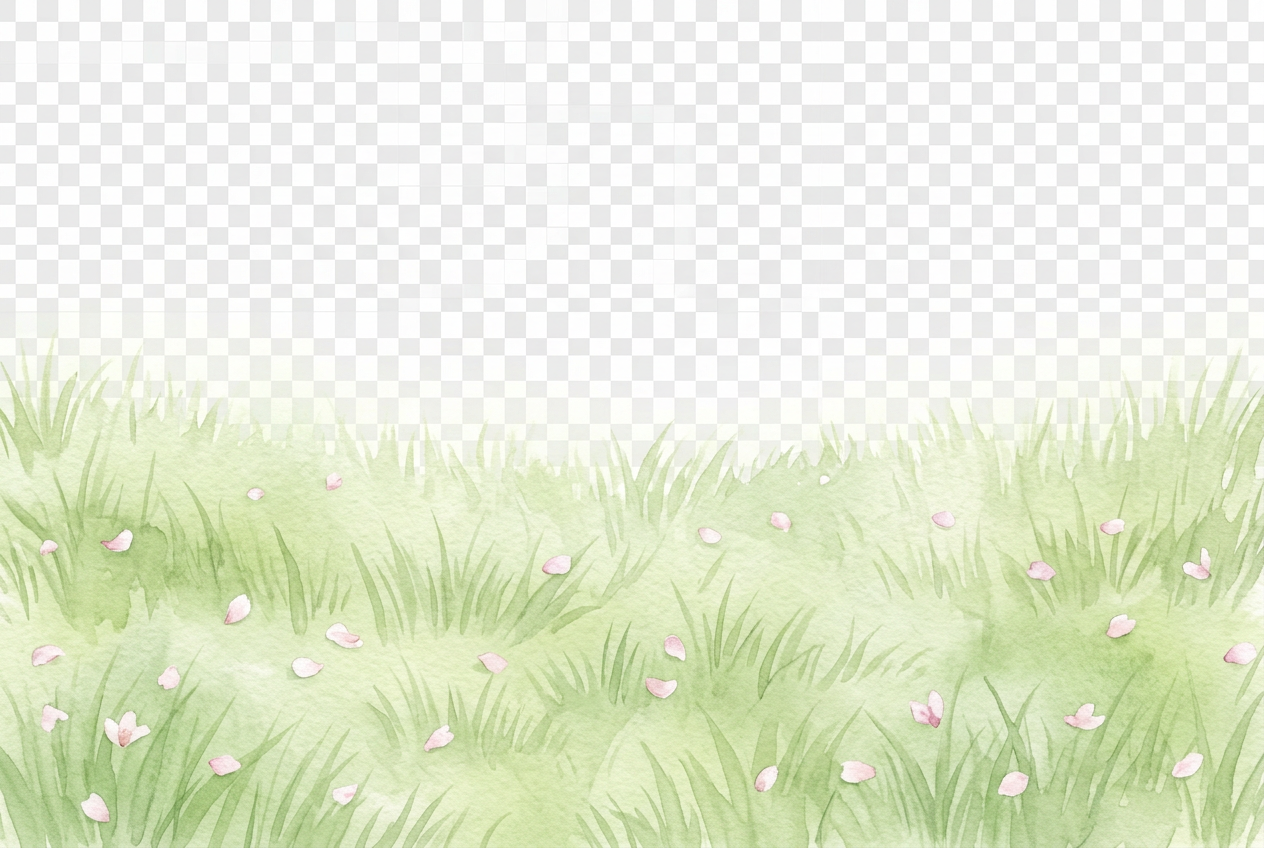
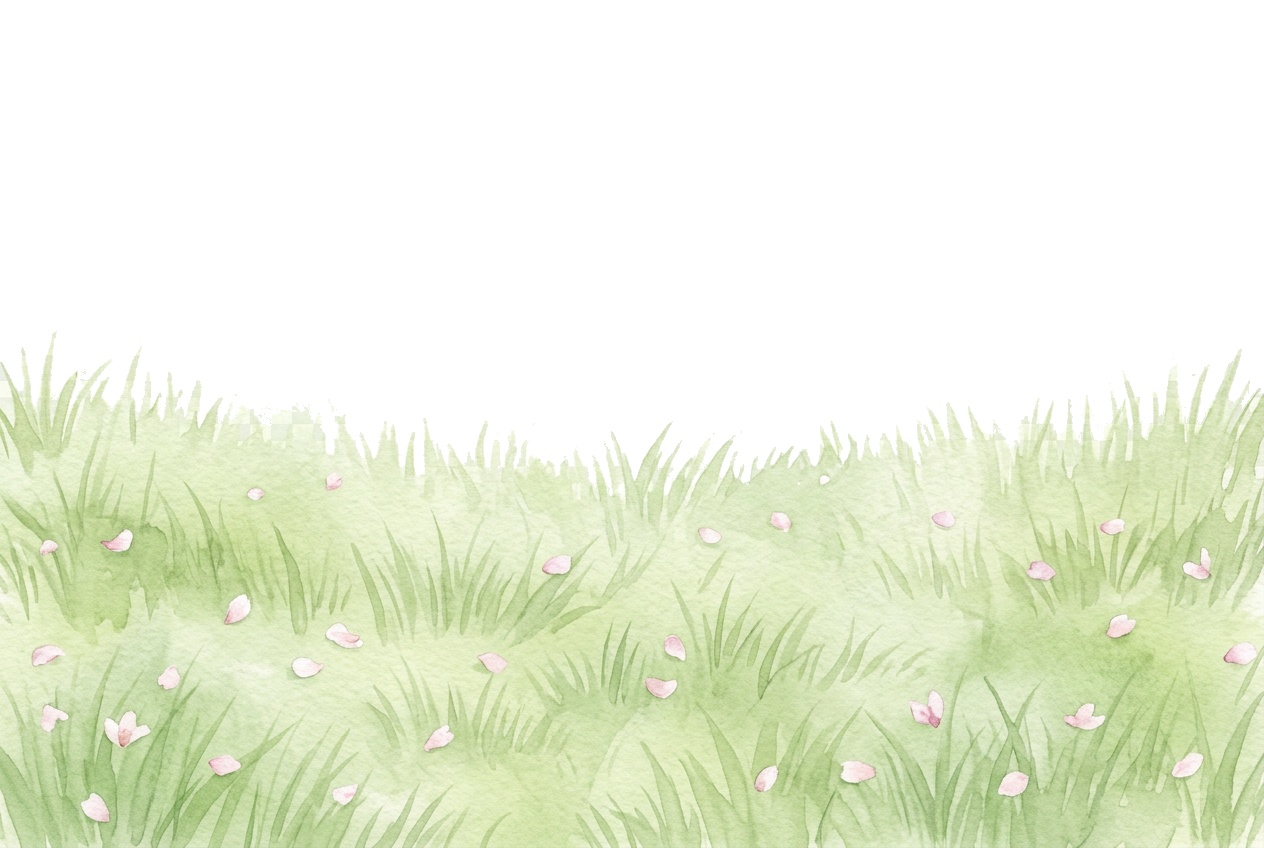
FF_BUILD bumped to 419 so your installed app refreshes. Take a look on your phone — the sky should be a clean, solid blue now. Anything else you'd like to tweak in the Spring realm?

diff --git a/frontend/public/index.html b/frontend/public/index.html
@@ -60,7 +60,7 @@
         <title>Fork·Fate — Restaurant Roulette</title>
         <script>window.addEventListener("error",function(e){if(e.error instanceof DOMException&&e.error.name==="DataCloneError"&&e.message&&e.message.includes("PerformanceServerTiming")){e.stopImmediatePropagation();e.preventDefault()}},true);</script>
         <script>(function(){try{if('serviceWorker' in navigator){window.addEventListener('load',function(){navigator.serviceWorker.register('/service-worker.js',{scope:'/'}).catch(function(){});});}}catch(e){}})();</script>
-        <script>(function(){try{var FF_BUILD="2026.06-418";var prev=localStorage.getItem("ff_build");if(prev!==FF_BUILD){localStorage.setItem("ff_build",FF_BUILD);if(window.caches&&caches.keys){caches.keys().then(function(keys){keys.forEach(function(k){caches.delete(k);});});}if(prev&&!sessionStorage.getItem("ff_build_reloaded")){sessionStorage.setItem("ff_build_reloaded","1");location.reload(true);}}}catch(e){}})();</script>
+        <script>(function(){try{var FF_BUILD="2026.06-419";var prev=localStorage.getItem("ff_build");if(prev!==FF_BUILD){localStorage.setItem("ff_build",FF_BUILD);if(window.caches&&caches.keys){caches.keys().then(function(keys){keys.forEach(function(k){caches.delete(k);});});}if(prev&&!sessionStorage.getItem("ff_build_reloaded")){sessionStorage.setItem("ff_build_reloaded","1");location.reload(true);}}}catch(e){}})();</script>
         <script src="https://assets.emergent.sh/scripts/emergent-main.js"></script>
         <!-- Google Analytics 4 -->
         <script async src="https://www.googletagmanager.com/gtag/js?id=G-4E739B8J0H"></script>

diff --git a/scripts/fix_spring_ground_checker.py b/scripts/fix_spring_ground_checker.py
@@ -1,0 +1,55 @@
+# Fix spring-ground2.png: the AI generator baked the transparency
+# checkerboard (opaque white/#E9E9E9 squares) into the sky half of the
+# meadow art. Flood-fill from the top edge across near-neutral light pixels
+# (the checker + white sky glow) and make them truly transparent, stopping
+# at the green watercolor grass. Petals INSIDE the grass are untouched
+# because they don't connect to the top region.
+from collections import deque
+from PIL import Image
+
+PATH = "/app/frontend/public/spring-ground2.png"
+im = Image.open(PATH).convert("RGBA")
+w, h = im.size
+px = im.load()
+
+def neutral_light(r, g, b, a):
+    return a > 0 and min(r, g, b) >= 200 and abs(r - g) <= 8 and abs(g - b) <= 8 and abs(r - b) <= 8
+
+seen = bytearray(w * h)
+q = deque()
+for x in range(w):
+    for y in (0, 1, 2):
+        r, g, b, a = px[x, y]
+        if neutral_light(r, g, b, a) and not seen[y * w + x]:
+            seen[y * w + x] = 1
+            q.append((x, y))
+
+cleared = 0
+while q:
+    x, y = q.popleft()
+    px[x, y] = (0, 0, 0, 0)
+    cleared += 1
+    for nx, ny in ((x - 1, y), (x + 1, y), (x, y - 1), (x, y + 1)):
+        if 0 <= nx < w and 0 <= ny < h and not seen[ny * w + nx]:
+            r, g, b, a = px[nx, ny]
+            if neutral_light(r, g, b, a):
+                seen[ny * w + nx] = 1
+                q.append((nx, ny))
+
+# soften the ragged boundary: any remaining near-neutral pixel touching a
+# cleared one gets half alpha so the grass edge doesn't look sawtoothed
+edge = 0
+for y in range(h):
+    for x in range(w):
+        if seen[y * w + x]:
+            continue
+        r, g, b, a = px[x, y]
+        if a > 0 and min(r, g, b) >= 190 and abs(r - g) <= 14 and abs(g - b) <= 14:
+            for nx, ny in ((x - 1, y), (x + 1, y), (x, y - 1), (x, y + 1)):
+                if 0 <= nx < w and 0 <= ny < h and seen[ny * w + nx]:
+                    px[x, y] = (r, g, b, a // 2)
+                    edge += 1
+                    break
+
+im.save(PATH)
+print(f"cleared {cleared} px ({100 * cleared / (w * h):.0f}%), feathered {edge} edge px")

diff --git a/memory/PRD.md b/memory/PRD.md
@@ -2495,3 +2495,17 @@ inside playHeistSound).
 - Verified via screenshots + DOM checks: 18 pink + 6 white rendering, computed
   opacity 1, blue sky live. FF_BUILD -> 2026.06-417.
 - STILL PENDING FROM USER: IARC certificate ID (user confirmed not received yet).
+
+## 2026-08-10 part 91: Grey/white checker in spring sky FIXED (FF_BUILD 419)
+- User screenshot showed grey/white checkerboard across the spring sky.
+  ROOT CAUSE: spring-ground2.png had the transparency checkerboard BAKED IN
+  as opaque pixels (#FEFEFE / #E9E9E9, alpha 255) across its whole sky half
+  (48% of image). Invisible vs old pastel sky; exposed by new blue sky.
+- FIX: /app/scripts/fix_spring_ground_checker.py — BFS flood fill from top
+  edge over near-neutral light px (min>=200, channel spread<=8) -> alpha 0,
+  + edge feathering (half alpha). Pass 2 (inline) expanded from transparent
+  region over pale tinted residue (min>=205, max-min<=16), +30895 px.
+  Verified: zoom composite on blue = clean horizon, mobile screenshot clean.
+- LESSON: when adding/regenerating scene art, CHECK for baked-in checker
+  (opaque near-white/grey alternating squares) — spring-ground.png (unused)
+  also has it (20%). season-spring-bloom.png has 2% suspicious px (unverified).
